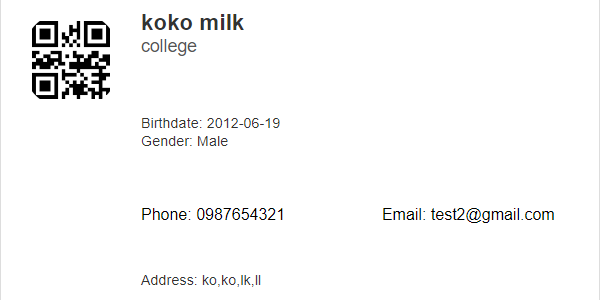
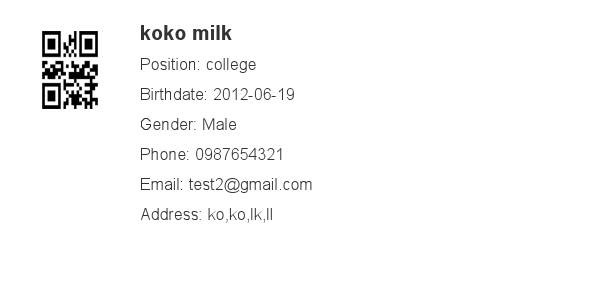
editgencard

diff --git a/handlers/gen_card.js b/handlers/gen_card.js
@@ -1,38 +1,73 @@
 const fs = require('fs');
-const puppeteer = require('puppeteer');
-const axios = require('axios');
 const path = require('path');
+const axios = require('axios');
 const FormData = require('form-data');
+const { createCanvas, loadImage } = require('canvas');
 const admin = require('../admin.js');
 const db = admin.firestore();
-const api ="https://business-api-638w.onrender.com";
-// Fetch data from API
-async function fetchData(url) {
-    try {
-        const response = await axios.get(url);
-        return response.data;
-    } catch (error) {
-        console.error('Error fetching data:', error.message);
-        return null;
+const api = "https://business-api-638w.onrender.com";
+
+// ฟังก์ชันวาด Business Card
+async function drawCard(data, outputPath) {
+    const width = 600;
+    const height = 300;
+    const canvas = createCanvas(width, height);
+    const ctx = canvas.getContext('2d');
+
+    // วาดพื้นหลัง
+    ctx.fillStyle = '#fff';
+    ctx.fillRect(0, 0, width, height);
+
+    // วาดภาพโปรไฟล์
+    if (data.profile) {
+        try {
+            const profileImage = await loadImage(data.profile);
+            ctx.drawImage(profileImage, 20, 20, 100, 100);
+        } catch (err) {
+            console.error('Error loading profile image:', err);
+        }
     }
+
+    // วาดข้อมูล
+    ctx.fillStyle = '#333';
+    ctx.font = 'bold 20px Arial';
+    ctx.fillText(`${data.firstname} ${data.lastname}`, 140, 40);
+
+    ctx.font = '16px Arial';
+    ctx.fillText(`Position: ${data.position}`, 140, 70);
+    ctx.fillText(`Birthdate: ${data.birthdate}`, 140, 100);
+    ctx.fillText(`Gender: ${data.gender}`, 140, 130);
+    ctx.fillText(`Phone: ${data.phone}`, 140, 160);
+    ctx.fillText(`Email: ${data.email}`, 140, 190);
+    ctx.fillText(`Address: ${data.address}`, 140, 220);
+
+    // บันทึกเป็นไฟล์ภาพ
+    const buffer = canvas.toBuffer('image/png');
+    fs.writeFileSync(outputPath, buffer);
 }
 
-// Upload image to server
+// ฟังก์ชันอัปโหลดภาพไปยังเซิร์ฟเวอร์
 async function uploadImage(filePath, userId) {
-    try {console.log('test');
+    try {
         const form = new FormData();
         form.append('file', fs.createReadStream(filePath));
         form.append('uid', userId);
         form.append('folder', 'business_cards');
         form.append('collection', 'users');
-        
-        const response = await axios.post(api+'/upload-image', form, {
-            headers: {
-                ...form.getHeaders()
-            }
-        });
 
-        console.log("response.data",response.data);
+        // ใช้ฟังก์ชันแบบอะซิงโครนัสเพื่อคำนวณ Content-Length
+        const headers = {
+            ...form.getHeaders(),
+            'Content-Length': await new Promise((resolve, reject) => {
+                form.getLength((err, length) => {
+                    if (err) reject(err);
+                    else resolve(length);
+                });
+            })
+        };
+
+        const response = await axios.post(api + '/upload-image', form, { headers });
+
         if (response.data && response.data.imageUrl) {
             return response.data;
         } else {
@@ -44,89 +79,42 @@ async function uploadImage(filePath, userId) {
     }
 }
 
-// Create business card from data
+// ฟังก์ชันดึงข้อมูลจาก API
+async function fetchData(url) {
+    try {
+        const response = await axios.get(url);
+        return response.data;
+    } catch (error) {
+        console.error('Error fetching data:', error.message);
+        return null;
+    }
+}
+
+// ฟังก์ชันสร้าง Business Card จากข้อมูล
 async function createBusinessCard(data) {
     if (!data) {
         console.log('No valid data to create the card.');
         return;
     }
 
-    const templatePath = path.join(__dirname, 'card.html');
-    let template;
+    const imagePath = path.join(__dirname, 'business-card.png');
+    await drawCard(data, imagePath);
 
-    try {
-        template = fs.readFileSync(templatePath, 'utf8');
-    } catch (err) {
-        console.error('Error reading template:', err);
-        return;
-    }
-
-    template = template.replace('{{PROFILE}}', data.profile || '');
-    template = template.replace('{{FIRSTNAME}}', data.firstname || 'Unknown');
-    template = template.replace('{{LASTNAME}}', data.lastname || 'Name');
-    template = template.replace('{{POSITION}}', data.position || 'Unknown Position');
-    template = template.replace('{{BIRTHDATE}}', data.birthdate || 'Unknown Birthdate');
-    template = template.replace('{{GENDER}}', data.gender || 'Unknown Gender');
-    template = template.replace('{{PHONE}}', data.phone || 'Unknown Phone');
-    template = template.replace('{{EMAIL}}', data.email || 'unknown@example.com');
-    template = template.replace('{{ADDRESS}}', data.address || 'Unknown Address');
-
-    const tempHtmlPath = path.join(__dirname, 'temp-card.html');
-
-    try {
-        fs.writeFileSync(tempHtmlPath, template, 'utf8');
-    } catch (err) {
-        console.error('Error writing temp HTML:', err);
-        return;
-    }
-
-    let browser;
-
-    try {
-        browser = await puppeteer.launch({ headless: true });
-        const page = await browser.newPage();
-        await page.goto(`file://${tempHtmlPath}`, { waitUntil: 'networkidle0' });
-        await page.setViewport({ width: 600, height: 300 });
-
-        const buffer = await page.screenshot({ type: 'png' });
-        const imagePath = path.join(__dirname, 'business-card.png');
-        fs.writeFileSync(imagePath, buffer);
-
-        await browser.close();
-
-        const uploadResult = await uploadImage(imagePath, data.id);
-        console.log('Upload result:', uploadResult);
-    } catch (err) {
-        console.error('Error generating card or uploading image:', err);
-    } finally {
-        if (browser) {
-            await browser.close();
-        }
-        if (fs.existsSync(tempHtmlPath)) {
-            fs.unlinkSync(tempHtmlPath);
-        }
-    }
+    const uploadResult = await uploadImage(imagePath, data.id);
+    console.log('Upload result:', uploadResult);
 }
 
-
-// Main function to handle user input and call other functions
+// ฟังก์ชันหลัก
 module.exports.genCard = async (req, res) => {
     try {
         const uid = req.body.uid;
-        const apiUrl = api+'/users/'+uid;
+        const apiUrl = api + '/users/' + uid;
         const data = await fetchData(apiUrl);
 
         if (data) {
             await createBusinessCard(data);
-            console.log('Business card created.');
-            // const updateResult = await updateBusinessCard(data.businessCard, data.id);
-            // console.log('Update result:', updateResult);
-            // if (!updateResult) {
-            //     throw new Error('Failed to update business card');
-            // }
             res.status(200).send('Business card created.');
         } else {
-            console.log('Failed to fetch data or create business card.');
             res.status(500).send('Failed to fetch data or create business card.');
         }
     } catch (error) {
@@ -134,6 +122,8 @@ module.exports.genCard = async (req, res) => {
         res.status(500).send('Internal Server Error');
     }
 };
+
+// ฟังก์ชันอัปเดต Business Card ในฐานข้อมูล
 const updateBusinessCard = async (imageUrl, userId) => {
     try {
         const userRef = db.collection('users').doc(userId);
@@ -154,6 +144,3 @@ const updateBusinessCard = async (imageUrl, userId) => {
         return false; // ส่งคืนสถานะล้มเหลว
     }
 };
-
-
-

diff --git a/handlers/user.js b/handlers/user.js
@@ -65,6 +65,7 @@ module.exports.getUsers = async (req, res) => {
         userData.id = doc.id; // Add user ID
         userData.birthdate = fc.formatDate(userData.birthdate); // Format birthdate
         userData.age = fc.calculateAge(userData.birthdate); // Calculate and add age
+        
   
         users.push(userData); // Add user data to array
       }

diff --git a/handlers/card.html b/handlers/card.html
@@ -1,3 +1,4 @@
+<!-- card.html -->
 <!DOCTYPE html>
 <html lang="en">
 <head>
